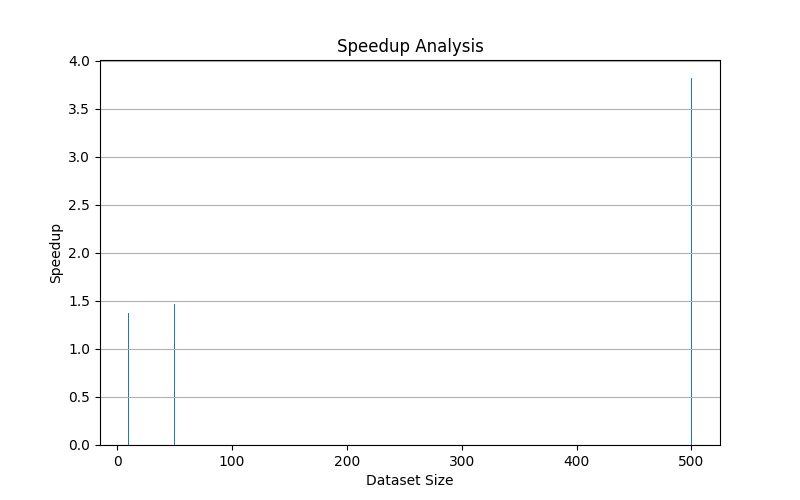
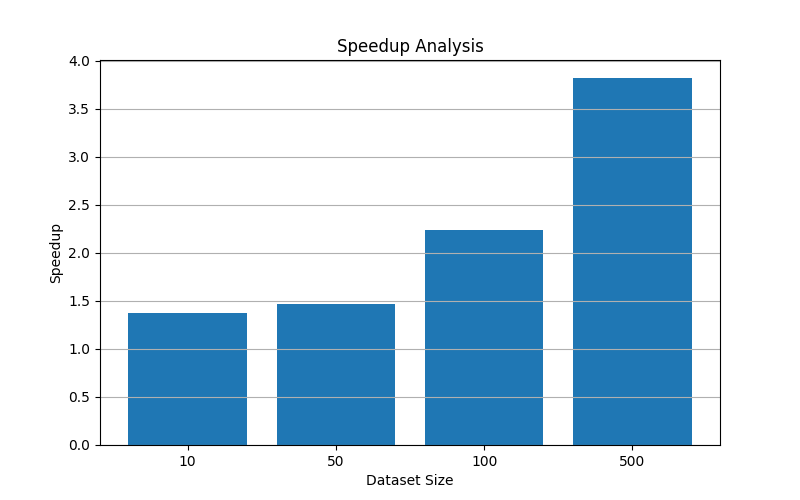
feat: minor changes with speedup graphs

diff --git a/create_graph.py b/create_graph.py
@@ -46,22 +46,37 @@ plt.close()
 # SPEEDUP
 # ======================
 
+import numpy as np
+
+x = np.arange(len(df))
+
 plt.figure(figsize=(8,5))
 
 plt.bar(
-    df['dataset'],
+    x,
     df['speedup']
 )
 
-plt.xlabel('Dataset Size')
+plt.xticks(
+    x,
+    df['dataset']
+)
 
-plt.ylabel('Speedup')
+plt.xlabel(
+    'Dataset Size'
+)
+
+plt.ylabel(
+    'Speedup'
+)
 
 plt.title(
     'Speedup Analysis'
 )
 
-plt.grid(axis='y')
+plt.grid(
+    axis='y'
+)
 
 plt.savefig(
     'speedup.png'